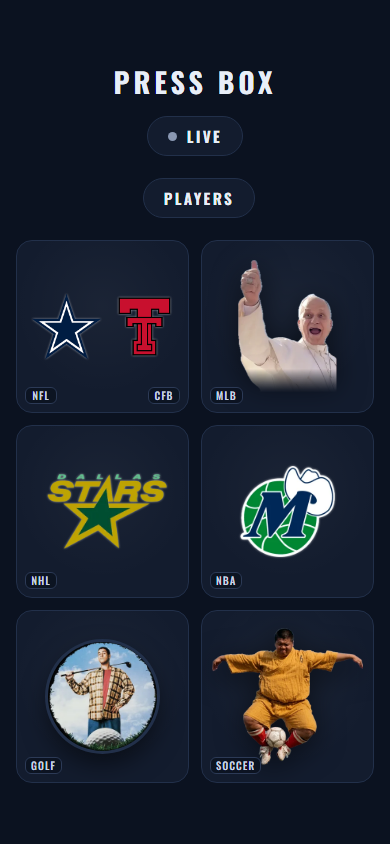
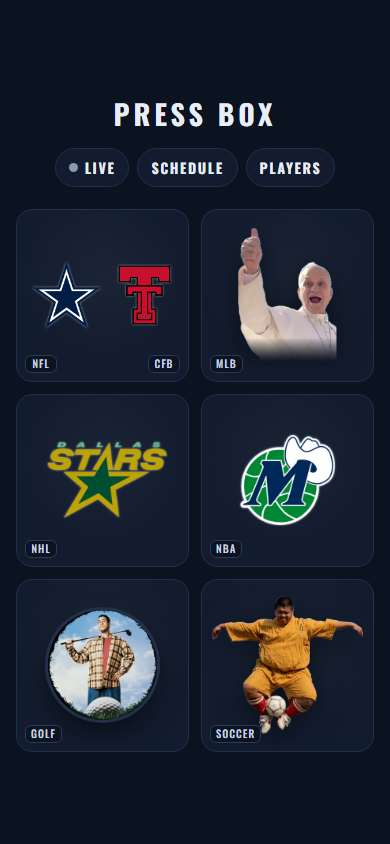
Live split stage 3: checks updated for the split (day grid check now on /schedule/, phone no-sideways-scroll asserted, split check for landing pills, Live and Schedule), landing pills in one row; schedule 274/277 (3 clock-dependent golf fails, same on origin/main), split 44/44, golfNow 27/27, smoke 
Claude-Session: https://claude.ai/code/session_01LC5qk6uxaXt6MnwiPgKzFm

diff --git a/_tests/live-split/measure.js b/_tests/live-split/measure.js
@@ -1,11 +1,15 @@
 /* Live split (job 1010-1240-nml): width and height check for /schedule/ and /live/ at 375x667, 390x844 and 1440x900.
    bun _tests/live-split/measure.js <label>     (set CHROME to Edge and PW_PROFILE to the worktree's .browser-profile)
    Feeds come from the saved samples in _tests/live-daygrid (same answers as test-page.js). Prints one line per page and
-   size, writes _tests/live-split/measure-<label>.json and screenshots preview/split-<label>-<page>-<case>-<w>.png. */
+   size, writes _tests/live-split/measure-<label>.json and screenshots preview/split-<label>-<page>-<case>-<w>.png.
+   It also checks the split: the landing page's Live and Schedule pills, Live is the classic scoreboard (live cards by league,
+   then Later today and Finals today), Schedule is the day grid, and at phone width neither page nor board scrolls sideways.
+   Exit code 1 if any check fails. */
 const { chromium } = require('../golf-live/pw-shim.js');
 const fs = require('fs'), path = require('path');
 const ROOT = path.join(__dirname, '..', '..'), SMP = path.join(ROOT, '_tests', 'live-daygrid', 'samples'), OUT = path.join(ROOT, 'preview');
 const LABEL = process.argv[2] || 'run';
+let pass = 0, fail = 0; function ok(c, m) { if (c) { pass++; console.log('PASS', m); } else { fail++; console.log('FAIL', m); } }
 const srv = Bun.serve({ port: 0, fetch(req) { let p = decodeURIComponent(new URL(req.url).pathname); if (p.endsWith('/')) p += 'index.html';
   if (/\/sw\.js$/.test(p)) return new Response('nf', { status: 404 }); const f = path.join(ROOT, p);
   return fs.existsSync(f) && fs.statSync(f).isFile() ? new Response(Bun.file(f)) : new Response('nf', { status: 404 }); } });
@@ -32,6 +36,19 @@ const CASES = [
 ];
 (async () => {
   const b = await chromium.launch(), rows = [], errs = [];
+  for (const [w, h, mob] of [[375, 667, true], [390, 844, true], [1440, 900, false]]) {   // the landing page pills
+    const ctx = await b.newContext({ viewport: { width: w, height: h }, isMobile: mob, hasTouch: mob }), p = await ctx.newPage();
+    p.on('pageerror', e => errs.push('landing @' + w + ': ' + e.message));
+    await p.route('**', r => { const u = r.request().url(); return u.startsWith('http://localhost:') && !u.endsWith("/sw.js") ? r.continue() : u.includes("fonts.g") ? r.continue() : (u.includes("site.api.espn") || u.includes("statsapi")) ? r.fulfill({ json: { events: [], dates: [] } }) : r.abort(); });
+    await p.goto('http://localhost:' + srv.port + '/'); await p.waitForTimeout(1200);
+    const L = await p.evaluate(() => { const ps = [...document.querySelectorAll('a.live')].map(a => ({ t: a.textContent.trim(), href: a.getAttribute('href'), r: a.getBoundingClientRect() }));
+      return { ps: ps.map(x => x.t + ' ' + x.href), inside: ps.every(x => x.r.left >= 0 && x.r.right <= innerWidth), oneRow: ps.every(x => Math.abs(x.r.top - ps[0].r.top) < 2), docW: document.documentElement.scrollWidth, vw: innerWidth }; });
+    ok(L.ps.length === 3 && L.ps[0] === "Live https://sloanescott16.github.io/live/" && L.ps[1] === "Schedule https://sloanescott16.github.io/schedule/" && /^Players /.test(L.ps[2]),
+      'landing @' + w + ': pills Live (to /live/), Schedule (to /schedule/), Players (' + L.ps.join(' | ') + ')');
+    ok(L.inside && L.docW <= L.vw, 'landing @' + w + ': the pills sit inside the screen, no sideways scroll (' + L.docW + ' of ' + L.vw + (L.oneRow ? ', one row' : ', wrapped') + ')');
+    await p.screenshot({ path: path.join(OUT, 'split-' + LABEL + '-landing-' + w + '.png') });
+    await ctx.close();
+  }
   for (const pg of (process.env.PAGES || 'schedule,live').split(',')) for (const cs of CASES) for (const [w, h, mob] of [[375, 667, true], [390, 844, true], [1440, 900, false]]) {
     const ctx = await b.newContext({ viewport: { width: w, height: h }, isMobile: mob, hasTouch: mob }), p = await ctx.newPage(), tag = pg + ' ' + cs.tag + ' @' + w + 'x' + h;
     p.on('pageerror', e => errs.push(tag + ': ' + e.message));
@@ -53,12 +70,23 @@ const CASES = [
       const wide = [...document.querySelectorAll('body *')].filter(e => { const q = e.getBoundingClientRect(); return q.width && (q.right > innerWidth + 1 || q.left < -1) && !(dg && dg.contains(e) && e !== dg); }).slice(0, 5).map(e => e.tagName + '.' + e.className);
       return { vw: innerWidth, vh: innerHeight, docW: de.scrollWidth, docH: de.scrollHeight, boardW: dg ? dg.scrollWidth : 0, boardClientW: dg ? dg.clientWidth : 0, boardH: dg ? dg.scrollHeight : 0, boardClientH: dg ? dg.clientHeight : 0, wide }; });
     r.page = pg; r.case = cs.tag; rows.push(r);
+    const c = await p.evaluate(() => ({ ver: (document.querySelector('meta[name="pb-version"]') || {}).content, title: document.title, dg: !!document.getElementById('dg'), heads: [...document.querySelectorAll('#app h2')].map(h => h.textContent),
+      cards: document.querySelectorAll('#app .grid > *').length, blocks: document.querySelectorAll('.b').length }));
+    if (pg === 'live') {
+      ok(c.ver === 'Live v13' && !c.dg, tag + ': Live is the classic scoreboard (' + c.ver + ', no day grid)');
+      if (cs.clock) ok(c.cards > 0 && c.heads.some(t => /[0-9]+ live$/.test(t)), tag + ': live games as cards under their league heads (' + c.cards + ' cards; ' + c.heads.filter(t => /live$/.test(t)).join(', ') + ')');
+      ok(c.heads.some(t => /^Later today/.test(t)) || c.heads.some(t => /^Finals today/.test(t)), tag + ': Later today and Finals today lists below, as in the classic page');
+    } else {
+      ok(c.ver === 'Schedule v1' && c.dg && c.blocks > 0 && /Schedule · Press Box$/.test(c.title), tag + ': Schedule is the day grid (' + c.ver + ', ' + c.blocks + ' cards, title "' + c.title + '")');
+      if (w < 560) ok(r.boardW <= r.boardClientW, tag + ': the board does not scroll sideways (' + r.boardW + ' of ' + r.boardClientW + ')');
+    }
+    ok(r.docW <= r.vw, tag + ': the page does not scroll sideways (' + r.docW + ' of ' + r.vw + ')');
     console.log(tag + ': page ' + r.docW + 'x' + r.docH + ' in ' + r.vw + 'x' + r.vh + (r.page === 'schedule' ? ' | board content ' + r.boardW + 'x' + r.boardH + ' in ' + r.boardClientW + 'x' + r.boardClientH : '') + (r.wide.length ? ' | past the edge: ' + r.wide.join(' ') : ''));
     await p.screenshot({ path: path.join(OUT, 'split-' + LABEL + '-' + pg + '-' + cs.tag + '-' + w + '.png') });
     await ctx.close();
   }
   await b.close(); srv.stop(true);
   fs.writeFileSync(path.join(__dirname, 'measure-' + LABEL + '.json'), JSON.stringify(rows, null, 1));
-  if (errs.length) console.log('ERRORS\n' + errs.join('\n'));
-  process.exit(0);
+  ok(!errs.length, 'no page errors' + (errs.length ? ':\n' + errs.join('\n') : ''));
+  console.log('\n' + (fail ? 'FAILED' : 'PASSED') + ' ' + pass + '/' + (pass + fail)); process.exit(fail ? 1 : 0);
 })().catch(e => { console.error(e); process.exit(1); });

diff --git a/_tests/live-daygrid/test-page.js b/_tests/live-daygrid/test-page.js
@@ -1,4 +1,5 @@
-/* Page check for Live v12 (v11 with the golf column cut to the PGA Tour and the majors), the day grid turned on its side (sport columns, hours down the right).  bun _tests/live-daygrid/test-page.js
+/* live-split (job 1010-1240-nml): this page is now /schedule/ (Schedule v1) and this check runs the desk grid at 1440x900; the phone list has its own check.
+   Page check for Live v12 (v11 with the golf column cut to the PGA Tour and the majors), the day grid turned on its side (sport columns, hours down the right).  bun _tests/live-daygrid/test-page.js
    Serves this worktree on localhost. Every ESPN and MLB feed is answered from samples saved with grab.sh (real feeds);
    team logos and fonts load from the real CDN so the screenshots look right. Screenshots go to preview/.
    Cases: today (9 Oct, real clock), and a busy Saturday (10 Oct, clock held at 3:30 PM Central, game states set by
@@ -97,11 +98,11 @@ async function open(b, w, mob, cs, errs, hgt) {
 (async () => {
   const b = await chromium.launch(); const errs = [];
   // v10: the PC (1440x900) and two phones (390x844, 375x667); screenshots at the PC and the 390 phone
-  for (const cs of CASES) for (const [w, mob, hgt] of [[1440, false, 900], [390, true, 844], [375, true, 667]]) {
+  for (const cs of CASES) for (const [w, mob, hgt] of [[1440, false, 900]]) {   // live-split: the grid is the desk layout; phones get the by-time list, checked by _tests/live-split/test-phone.js
     const { ctx, p, tag } = await open(b, w, mob, cs, errs, hgt);
-    const shot = (extra) => path.join(OUT, 'live-v12-' + (mob ? 'phone' : 'pc') + '-' + (cs.tag === 'busy-saturday' ? 'busy' : cs.tag) + (extra ? '-' + extra : '') + '.png');
+    const shot = (extra) => path.join(OUT, 'schedule-v1-' + (mob ? 'phone' : 'pc') + '-' + (cs.tag === 'busy-saturday' ? 'busy' : cs.tag) + (extra ? '-' + extra : '') + '.png');
     const shoot = w !== 375;
-    await p.goto('http://localhost:' + srv.port + '/live/');
+    await p.goto('http://localhost:' + srv.port + '/schedule/');
     await p.waitForFunction(() => document.getElementById('meta').textContent.startsWith('Updated'), undefined, { timeout: 20000 });
     await p.waitForTimeout(400);
     const r = await p.evaluate(() => { const dg = document.getElementById('dg'), now = dg.querySelector('.now'), hd = dg.querySelector('.hd'), gut = dg.querySelector('.gut'), labs = [...dg.querySelectorAll('.hd .ch img')];
@@ -176,11 +177,11 @@ async function open(b, w, mob, cs, errs, hgt) {
       ok(!!sb, tag + ': a Stars game card is on the grid (' + sb + ')');
       if (sb) {
         await p.waitForTimeout(200);
-        if (shoot) await p.screenshot({ path: path.join(OUT, 'live-v12-stars-grid-' + w + '.png') });
+        if (shoot) await p.screenshot({ path: path.join(OUT, 'schedule-v1-stars-grid-' + w + '.png') });
         await p.click('.b[data-g="' + sb + '"]'); await p.waitForTimeout(500);
         const lg = await p.evaluate(() => [...document.querySelectorAll('#gs .g img')].map(i => ({ src: i.getAttribute('src'), ok: i.complete && i.naturalWidth > 0 })));
         ok(lg.some(i => /stars-classic-dark.svg$/.test(i.src) && i.ok), tag + ': game sheet shows the classic Stars logo, loaded (' + lg.map(i => i.src.split('/').pop()).join(', ') + ')');
-        if (shoot) await p.screenshot({ path: path.join(OUT, 'live-v12-stars-sheet-' + w + '.png') });
+        if (shoot) await p.screenshot({ path: path.join(OUT, 'schedule-v1-stars-sheet-' + w + '.png') });
         await p.keyboard.press('Escape'); await p.waitForTimeout(200);
       }
     }

diff --git a/index.html b/index.html
@@ -31,6 +31,8 @@ h1{font-family:Oswald,sans-serif;font-weight:700;letter-spacing:.14em;text-trans
 .live:hover,.live:focus-visible{transform:translateY(-2px);border-color:#ef4444;box-shadow:0 8px 24px rgba(239,68,68,.25);outline:none}
 .live.pl{margin-left:8px}.live.pl:hover,.live.pl:focus-visible{border-color:#3b82f6;box-shadow:0 8px 24px rgba(59,130,246,.25)}   /* v33 */
 .live.sch:hover,.live.sch:focus-visible{border-color:#8a98b3;box-shadow:0 8px 24px rgba(138,152,179,.22)}   /* v34: Schedule pill */
+.pills{display:flex;flex-wrap:wrap;justify-content:center;gap:8px;margin-bottom:22px}.pills .live{margin:0}   /* v34: the pills in one row */
+@media (max-width:420px){.pills .live{padding:8px 13px;gap:7px;font-size:14px;letter-spacing:.12em}}
 @keyframes lp{0%{box-shadow:0 0 0 0 rgba(239,68,68,.6)}70%{box-shadow:0 0 0 8px rgba(239,68,68,0)}100%{box-shadow:0 0 0 0 rgba(239,68,68,0)}}
 @media (prefers-reduced-motion:reduce){.live.on i{animation:none}}
 .sub{color:var(--dim);font-size:14px;margin-bottom:28px;letter-spacing:.04em}
@@ -126,9 +128,11 @@ a.tile.gf:hover .cup,a.tile.gf:focus-visible .cup{box-shadow:0 0 0 3px #4a5b80,0
 <body>
 <svg width="0" height="0" style="position:absolute" aria-hidden="true"><filter id="cut"><feComponentTransfer><feFuncA type="linear" slope="1.6" intercept="-0.45"/></feComponentTransfer></filter></svg>
 <h1>Press Box</h1>
+<div class="pills"><!-- v34: Live, Schedule and Players side by side -->
 <a class="live" id="live" href="https://sloanescott16.github.io/live/"><i></i><span id="liveT">Live</span></a>
 <a class="live pl sch" href="https://sloanescott16.github.io/schedule/" aria-label="Schedule, every game today by time">Schedule</a><!-- v34: the by-time day grid; Live is the in-progress scoreboard -->
 <a class="live pl" href="https://sloanescott16.github.io/player/" aria-label="Find a player">Players</a><!-- v33: player search, career and bio for any player -->
+</div>
 <main class="grid">
   <div class="tile fb split" id="tFb"><span class="lv"><i></i>Live</span>
     <span class="pair"><img src="https://a.espncdn.com/i/teamlogos/nfl/500/dal.png" alt=""><img src="https://a.espncdn.com/i/teamlogos/ncaa/500/2641.png" alt=""></span>

diff --git a/_tests/golf-live/test-golfnow.js b/_tests/golf-live/test-golfnow.js
@@ -11,7 +11,7 @@ const land = grab('index.html'), green = grab('the-green/index.html');
 let pass = 0, fail = 0;
 function ok(c, msg) { if (c) { pass++; console.log('PASS', msg); } else { fail++; console.log('FAIL', msg); } }
 ok(land === green, 'golfNow is the same code in index.html and the-green/index.html');
-ok(land === grab('live/index.html'), 'golfNow is the same code in live/index.html (Live v11 golf column)');
+ok(land === grab('schedule/index.html'), 'golfNow is the same code in schedule/index.html (the day grid golf column, Live v11, now Schedule v1)');   // live-split: the classic Live page has no golf
 const golfNow = new Function(land + '\nreturn golfNow;')();
 const clone = o => JSON.parse(JSON.stringify(o)), ev = f => clone(S(f).events[0]);
 const T = s => Date.parse(s), NOW = T('2026-10-08T21:24:00Z');   // when the samples were fetched (4:24 PM Central)
